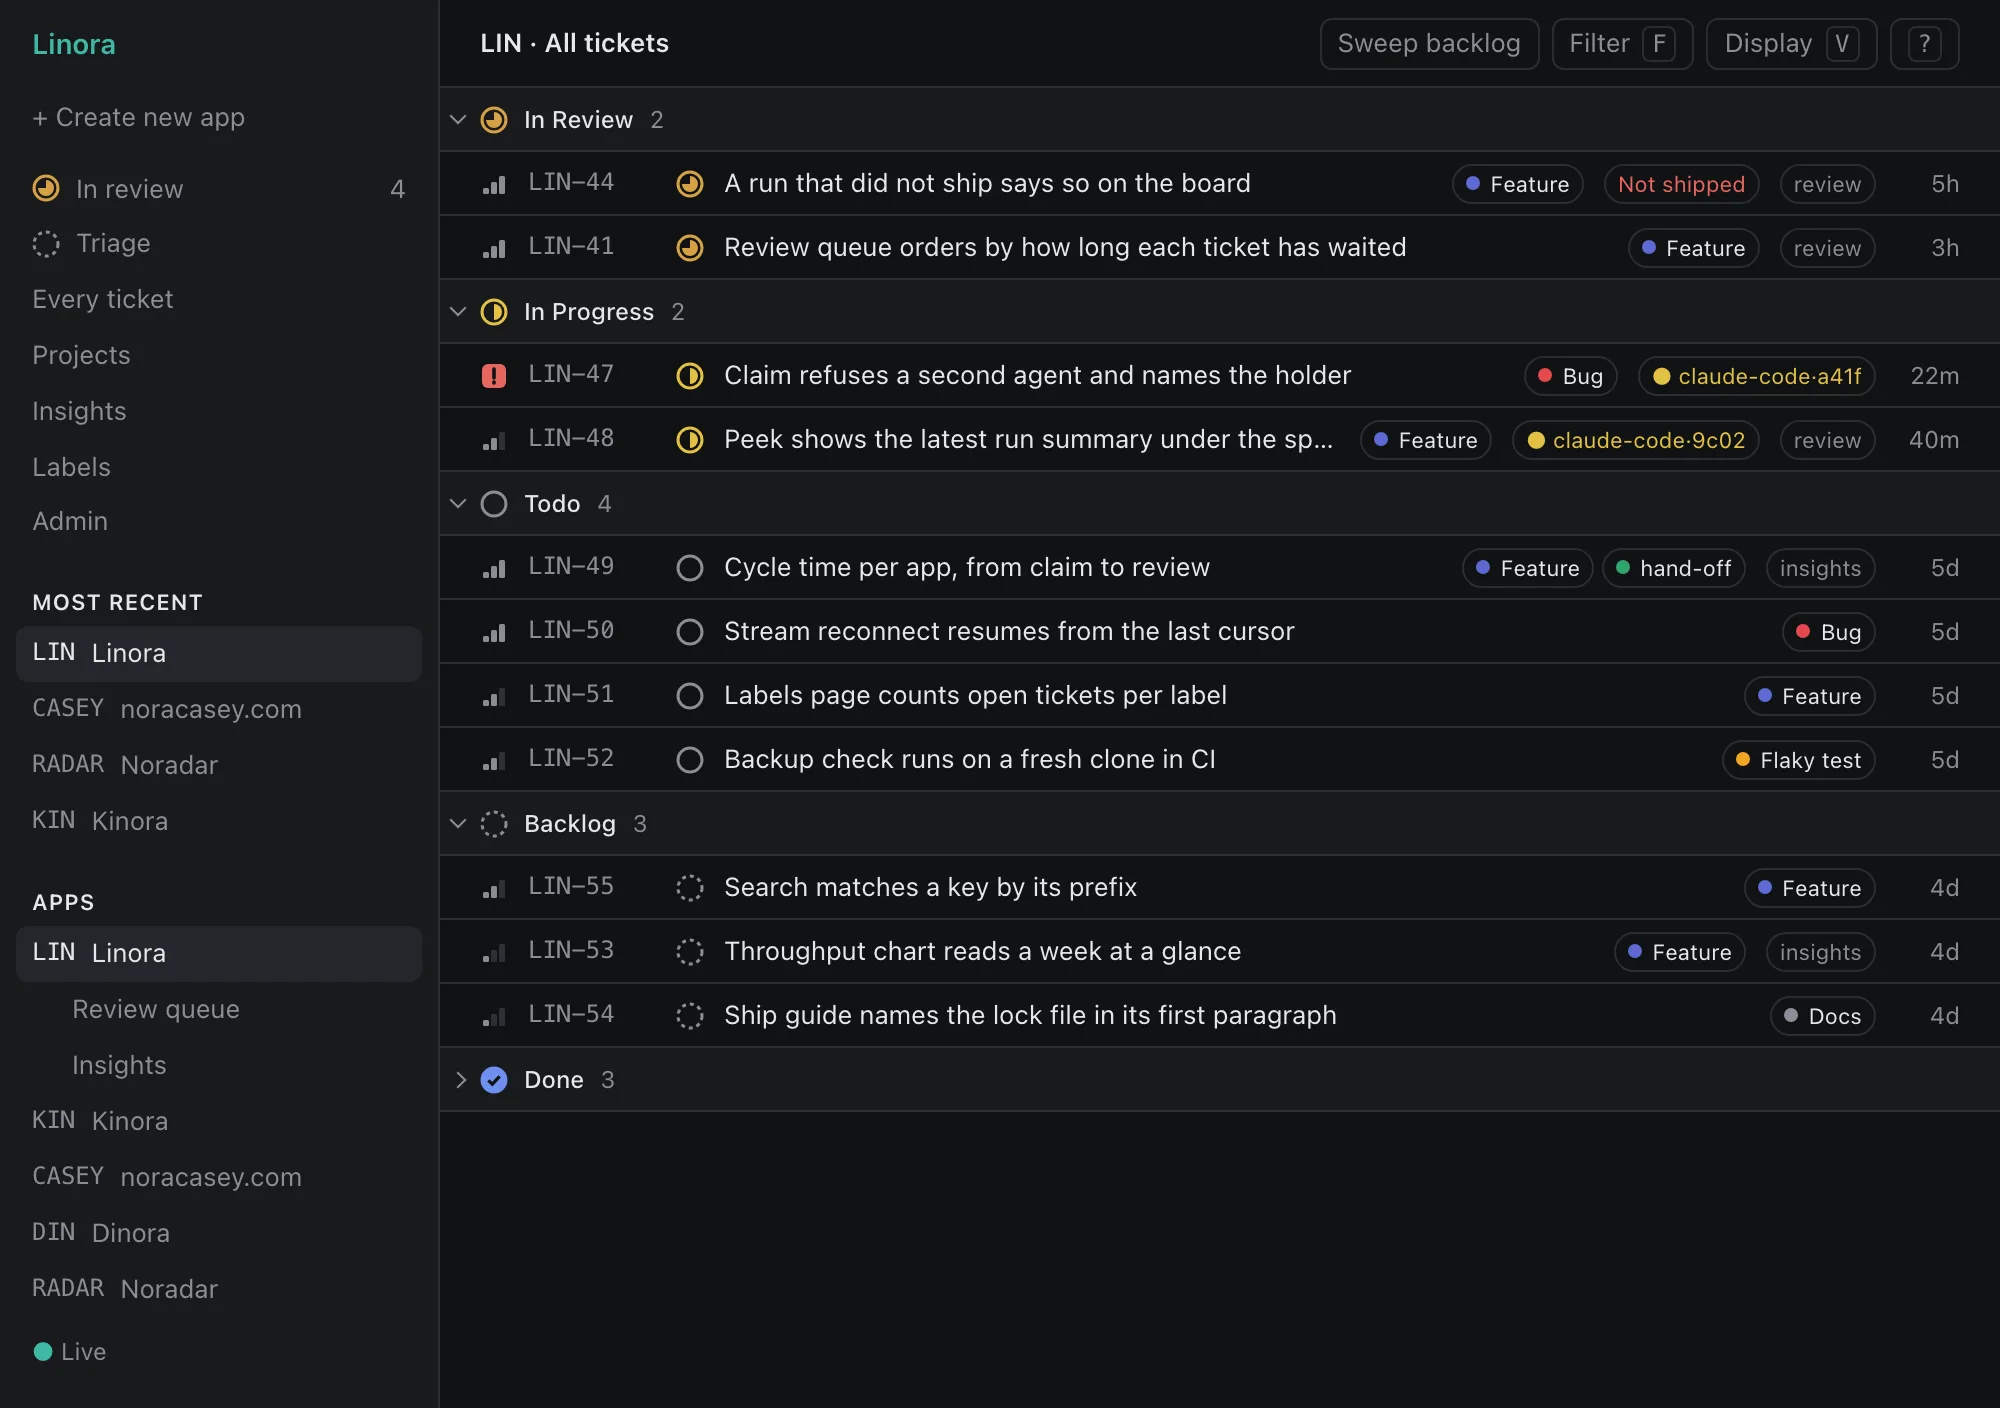
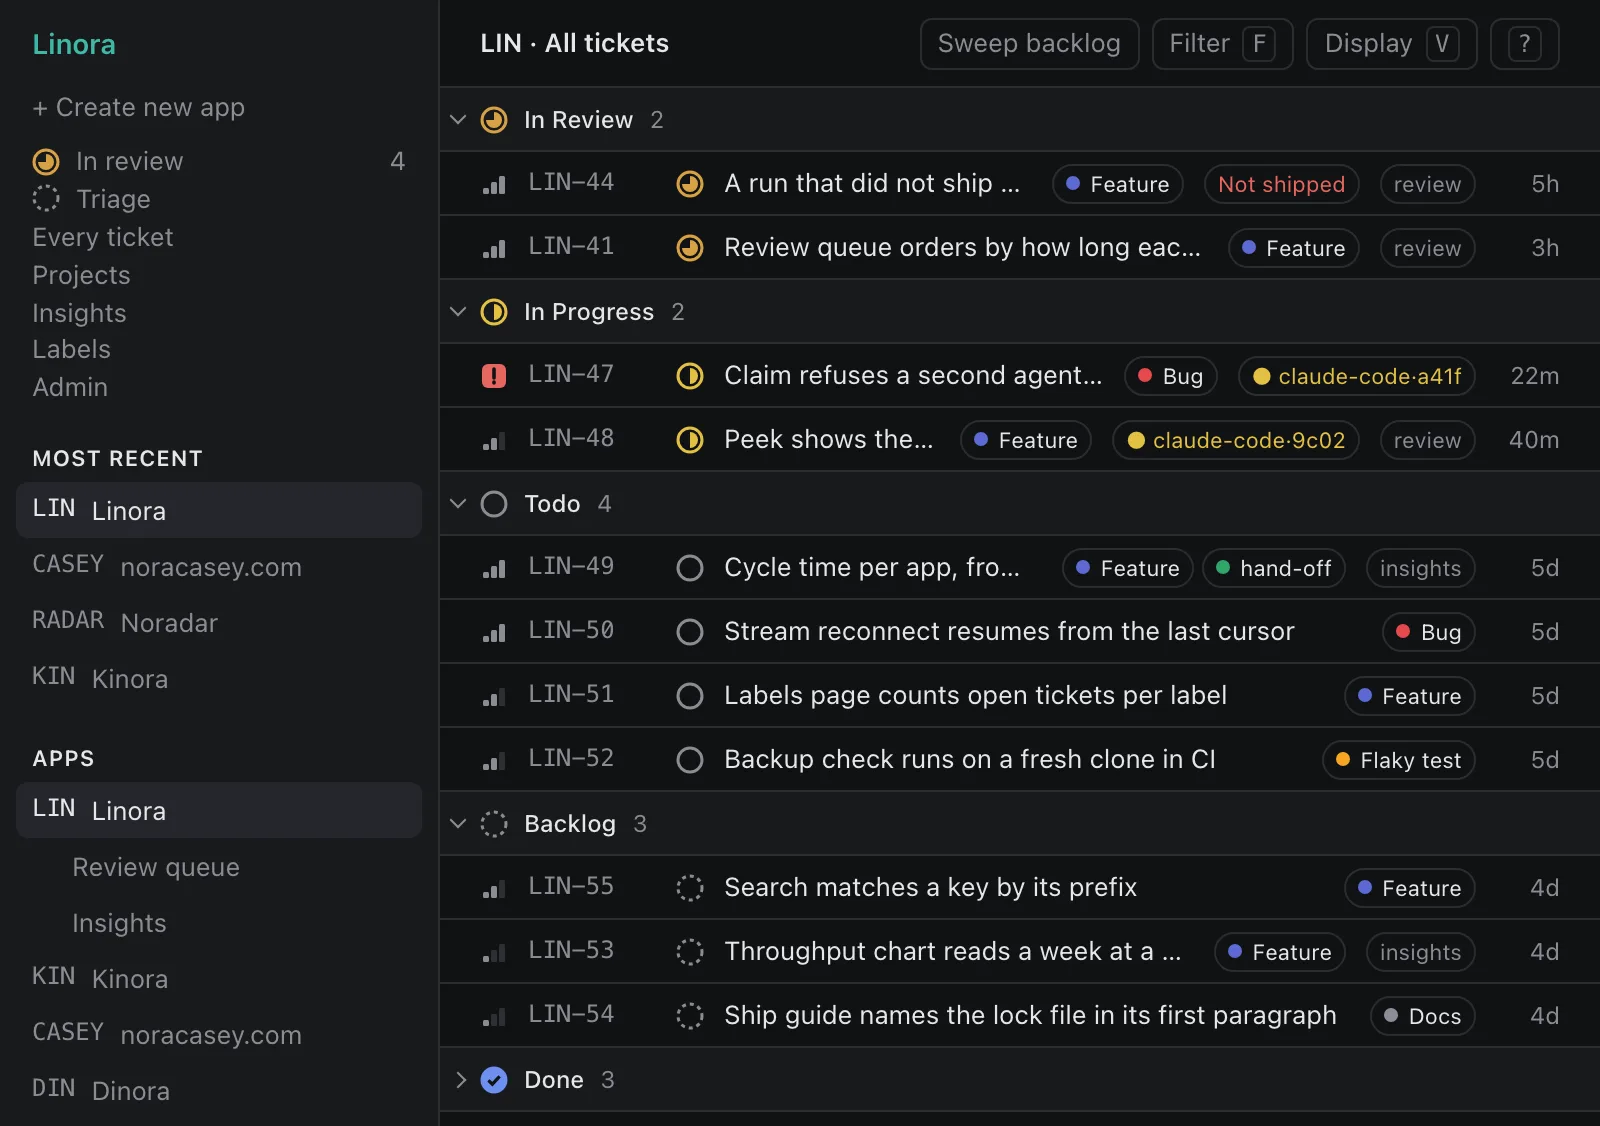
Linora's screenshots are taken at the width the page shows them
They were shot from a 1440 px window, but the hero frame stops at 1018
CSS px and the details column at 669, so Linora's 13 px interface text
was drawn at about 9 px in the hero and 6 px in the ticket, resampled at
an uneven ratio. That was the blur, not the pixel count, which matched
the other case studies.

The driver now shoots the board from a 1024 x 576 window, the ticket as
its own content column (736 x 414, ending under the run summary), and
the home card at 800 x 563 like Noradar's, all at 2x. A 2x screen draws
each close to pixel for pixel. The alt texts say what the new crops show.

Runway: CASEY-27

diff --git a/src/pages/LinoraPage.tsx b/src/pages/LinoraPage.tsx
@@ -108,7 +108,7 @@ export function LinoraPage(): React.ReactElement {
       <ShowcaseGame width="100%" thirdParty={false}>
         <CaseStudyMedia
           image={linoraBoard}
-          alt="Linora in its dark theme, on the tickets of one app, Linora itself. A sidebar lists the review queue with a count of 4, triage, every ticket, projects, insights, labels and admin, then the apps. The list is grouped by status: two in review, one marked Not shipped; two in progress, each held by a named agent session; four to do; three in the backlog; and three done, folded. Each row has a priority, a key, a title, labels and an age. The sidebar ends on Live."
+          alt="Linora in its dark theme, on the tickets of one app, Linora itself. A sidebar lists the review queue with a count of 4, triage, every ticket, projects, insights, labels and admin, then the apps. The list is grouped by status: two in review, one marked Not shipped; two in progress, each held by a named agent session; four to do; three in the backlog; and three done, folded. Each row has a priority, a key, a title, labels and an age."
           caption="An app's tickets, grouped by status. The page is the real one, driven by a script; the rows are invented, because the real board holds private work."
         />
       </ShowcaseGame>
@@ -164,7 +164,7 @@ export function LinoraPage(): React.ReactElement {
           <figure className="flex flex-col gap-3">
             <img
               src={linoraTicket}
-              alt="A Linora ticket scrolled to its last sections: the spec, an empty attachments area, one comment from Nora saying to show it on the row too, and a Runs section with one run marked Completed and not shipped, by a named agent session on claude-opus-5-5. Its summary has three parts: what was built, what was found on the way, and what the plan got wrong."
+              alt="The end of a Linora ticket: the last line of a comment from Nora saying to show it on the row too, the box for adding a comment, and a Runs section with one run marked Completed and not shipped, by a named agent session on claude-opus-5-5, with a progress note under it. Its summary has three parts: what was built, what was found on the way, and what the plan got wrong."
               loading="lazy"
               decoding="async"
               className="block aspect-video w-full rounded-xl border border-border object-cover object-top"
